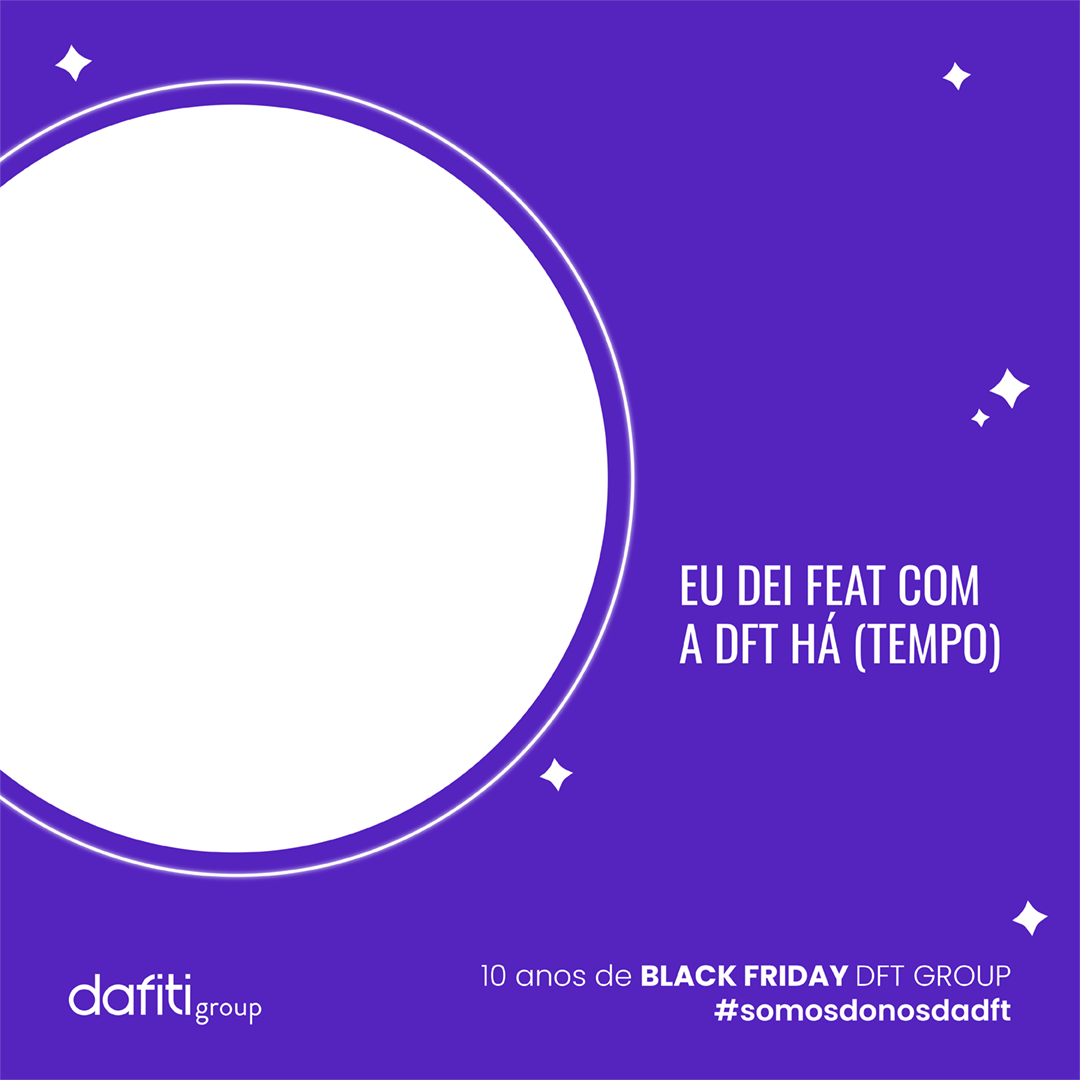
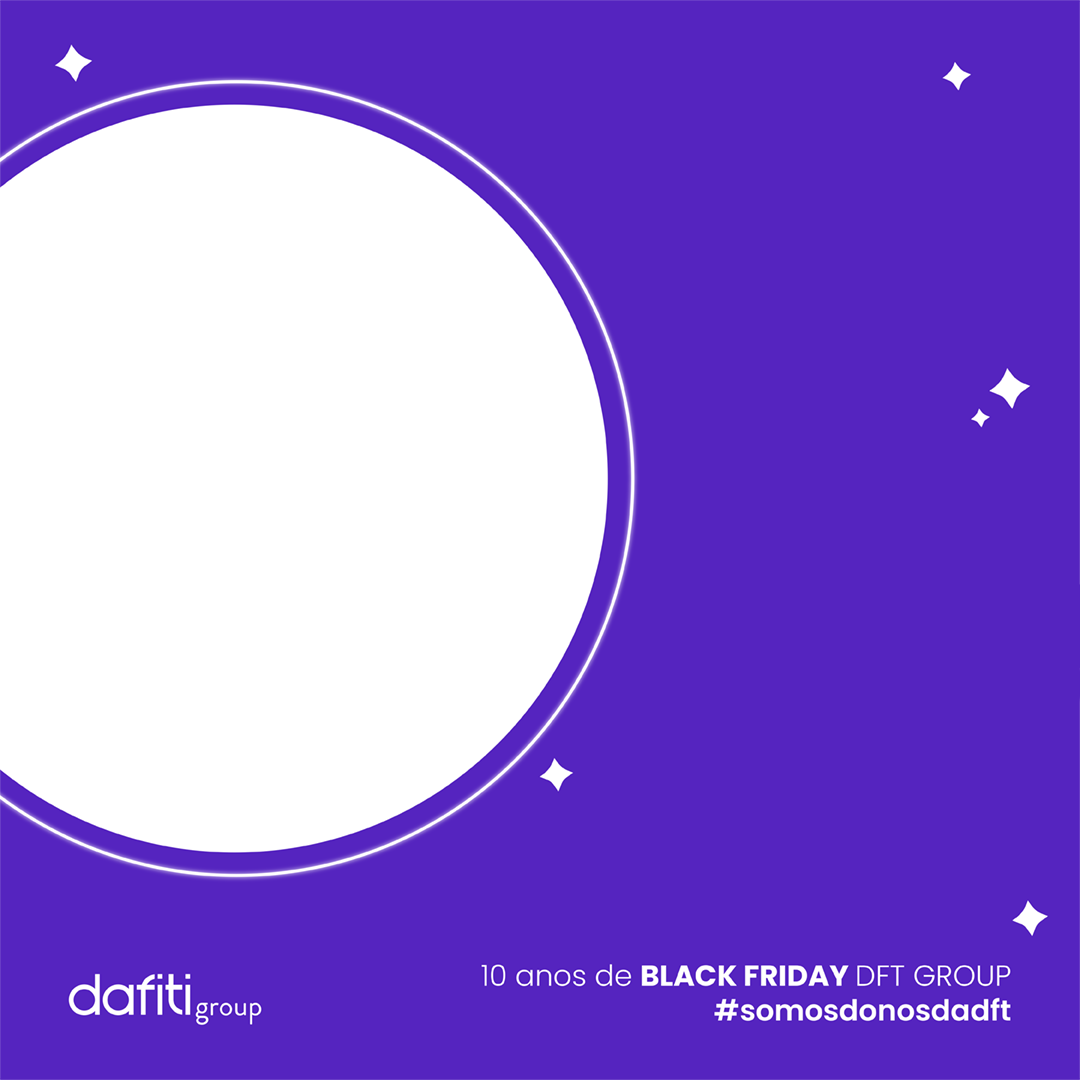
It adds time field

Changed region(s): [[0.6111, 0.5194, 0.9472, 0.6111]]

diff --git a/src/App.css b/src/App.css
@@ -38,7 +38,27 @@ main{
   flex-direction: column;
 }
 
-textarea{
+.feat{
+  position: absolute;
+  left: 63%;
+  top: 52%;
+  text-transform: uppercase;
+  color: #FFF;
+  pointer-events: none;
+  font-size: 1.4em;
+  font-weight: 400;
+  line-height: 1.2em;
+  width: 30%;
+  display: table-cell;
+  display: flex;
+  justify-content: center;
+  align-content: center;
+  flex-direction: column;
+}
+
+
+textarea.nameTextarea,
+textarea.timeTextarea{
   position: absolute;
   left: 61%;
   bottom: 49%;
@@ -55,24 +75,36 @@ textarea{
   text-align: left;  
   overflow: hidden;  
 }
-textarea::selection {
+textarea.nameTextarea::selection,
+textarea.timeTextarea::selection {
   background-color: transparent;
 }
 
-textarea:invalid{
+textarea.nameTextarea:invalid,
+textarea.timeTextarea:invalid{
   border:dashed 3px #ff3b3b
 }
-textarea:focus:invalid{
+textarea.nameTextarea:focus:invalid,
+textarea.timeTextarea:focus:invalid{
   border:dashed 3px #ffe23b
 }
 
-textarea:focus:required:valid{
+textarea.nameTextarea:focus:required:valid,
+textarea.timeTextarea:focus:required:valid{
   border:dashed 3px #52ff3b
 }
-textarea:not(:focus):valid{
+textarea.nameTextarea:not(:focus):valid,
+textarea.timeTextarea:not(:focus):valid{
   border:dashed 3px transparent;
 }
 
+textarea.timeTextarea{
+  top: 56%;
+  left: 73%;
+  width: 14%;
+  height: 5%;
+  z-index: 9;
+}
 
 input[type="file"]{
   position: absolute;
@@ -116,16 +148,18 @@ input[type="file"]{
 }
 
 .nameTip,
-.avatarTip{
+.avatarTip,
+.timeTip{
   position: absolute;
   background: #ffe23b;
-  padding: 2px 6px;
   box-sizing: border-box;
   border-radius: 20px;
+  font-size: .9em;
 }
 
 .nameTip:after,
-.avatarTip:after{
+.avatarTip:after,
+.timeTip:after{
   content: '';
   display: block;
   width: 8px;
@@ -139,13 +173,27 @@ input[type="file"]{
 
 .nameTip{
   left: 67%;
-  bottom: 76%
+  bottom: 76%;
+  padding: 2px 6px 6px 6px;
 }
 
 .avatarTip{
   left: 10%;
-  top: 2%
+  top: 2%;
+  padding: 2px 6px 6px 6px;
 }
+
+.timeTip:after{
+  
+  top: -6px
+}
+
+.timeTip{
+  right: 4%;
+  top: 68%;
+  padding: 4px 6px;
+}
+
 
 input[type="file"]:valid ~ .dashedAvatar{
   border:none
@@ -155,11 +203,11 @@ input[type="file"]:valid ~ .avatarTip{
   display: none;
 }
 
-textarea:not(:focus):valid ~ .nameTip{
+textarea.nameTextarea:not(:focus):valid ~ .nameTip{
   display: none;
 }
 
-textarea:not(:focus):valid ~ .nameTip{
+textarea.timeTextarea:not(:focus):valid ~ .timeTip{
   display: none;
 }
   

diff --git a/src/arts/featbf.tsx b/src/arts/featbf.tsx
@@ -3,6 +3,7 @@ import dafitiFeatImg from '../assets/dafitiFeat.png';
 
 const FeatBF: React.FC<any> = React.forwardRef((props, ref:any) => {
   const [fullname, setFullname]:any = useState('');
+  const [time, setTime]:any = useState('');
   const [img, setImg]:any = useState(null);
   
   return(
@@ -10,16 +11,19 @@ const FeatBF: React.FC<any> = React.forwardRef((props, ref:any) => {
       <section ref={ref} className="sArt">
     { !props.isSaving ? 
     <form>
-      <textarea required onChange={(event:any) => { setFullname(event.target.value);}}></textarea>
+      <textarea spellCheck="false" required className="nameTextarea" onChange={(event:any) => { setFullname(event.target.value);}}></textarea>
       <input required placeholder="image" type="file" onChange={(event:any) => {setImg(()=> URL.createObjectURL(event.target.files[0]));}}/>
+      <textarea spellCheck="false" required className="timeTextarea" onChange={(event:any) => { setTime(event.target.value);}}></textarea>
       <div className="dashedAvatar"></div>
       <div className="nameTip">Digite o seu nome</div>
       <div className="avatarTip">Escolha sua imagem</div>
+      <div className="timeTip">Quanto tempo? (Ex: 5 anos)</div>
     </form> : ''
   }
         <img className="avatar" src={img} alt="Avatar"/>
         <div>{props.fullname}</div>
         <div className="fullName">{fullname}</div>
+        <div className="feat">Eu dei feat com a DFT há {time}</div>
         <img src={dafitiFeatImg} alt="Dafiti Black Friday" className="art" />
       </section>
     </>

diff --git a/src/global.css b/src/global.css
@@ -42,10 +42,11 @@ table {
 	border-spacing: 0;
 }
 
-@import url('https://fonts.googleapis.com/css2?family=Bebas+Neue&display=swap');
+@import url('https://fonts.googleapis.com/css2?family=Bebas+Neue&family=Oswald:wght@300;400;600&display=swap');
 
 body{
 	background: #000;
-	font-family: 'Bebas Neue', cursive;
+	font-family: 'Oswald', sans-serif;
+	font-weight: 600;
 	font-size: 16px;
 }
